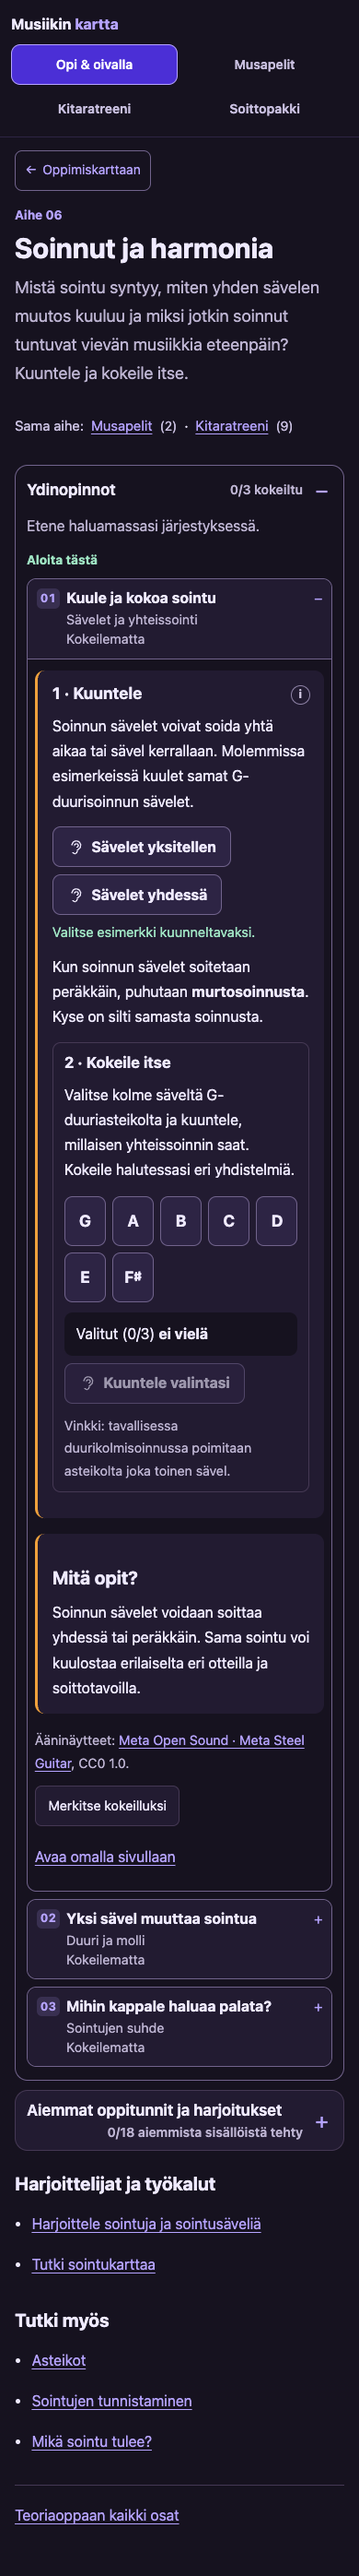
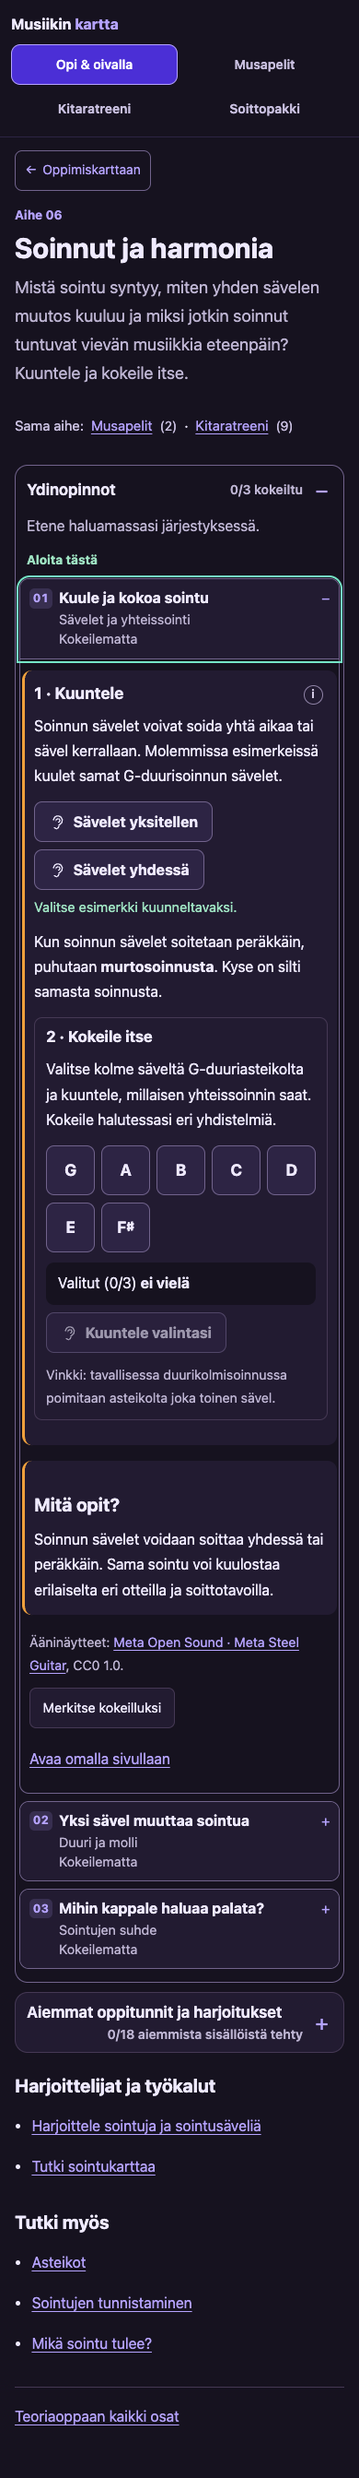
Kavenna avattujen sointuharjoitusten mobiilireunoja

diff --git a/assets/sointuharjoitus.css b/assets/sointuharjoitus.css
@@ -121,3 +121,13 @@
 .study-inline-body { padding: 0 clamp(.45rem, 2vw, .875rem) .875rem; min-width: 0; }
 .study-inline-body .done-row, .study-inline-link { margin-block: .75rem 0; }
 .study-inline-link a { display: inline-flex; align-items: center; min-height: 44px; }
+
+@media (max-width: 600px) {
+  .study-unit-body:has(> .study-inline-choices) { padding-inline: .25rem; }
+  .study-unit-body:has(> .study-inline-choices) > :is(.study-unit-goal, .study-start) {
+    margin-inline: .5rem;
+  }
+  .study-inline-body { padding-inline: .125rem; }
+  .study-inline-body > :is(.practice, .note) { padding-inline: .625rem; }
+  .study-inline-body > :is(.sointu-lahde, .done-row, .study-inline-link) { margin-inline: .5rem; }
+}

diff --git a/oppi/soinnut/index.html b/oppi/soinnut/index.html
@@ -9,7 +9,7 @@
   <link rel="stylesheet" href="../../assets/paavalikko.css?v=4e5c7fbf95">
   <link rel="stylesheet" href="../../assets/oppi.css?v=cf1b18af1d">
   <link rel="stylesheet" href="../../assets/kokonaisuudet.css?v=d3216b05a6">
-  <link rel="stylesheet" href="../../assets/sointuharjoitus.css?v=80b70e79c1">
+  <link rel="stylesheet" href="../../assets/sointuharjoitus.css?v=0e9e104442">
 </head>
 <body>
   <a class="study-skip" href="#oppi-sisalto">Siirry sisältöön</a>

diff --git a/oppi/soinnut/kokeile-g-sointua-kitaralla.html b/oppi/soinnut/kokeile-g-sointua-kitaralla.html
@@ -9,7 +9,7 @@
   <link rel="stylesheet" href="../../assets/paavalikko.css?v=4e5c7fbf95">
   <link rel="stylesheet" href="../../assets/oppi.css?v=cf1b18af1d">
   <link rel="stylesheet" href="../../assets/kokonaisuudet.css?v=d3216b05a6">
-  <link rel="stylesheet" href="../../assets/sointuharjoitus.css?v=80b70e79c1">
+  <link rel="stylesheet" href="../../assets/sointuharjoitus.css?v=0e9e104442">
 </head>
 <body>
   <a class="study-skip" href="#oppi-sisalto">Siirry sisältöön</a>

diff --git a/oppi/soinnut/kuule-ja-kokoa-sointu.html b/oppi/soinnut/kuule-ja-kokoa-sointu.html
@@ -9,7 +9,7 @@
   <link rel="stylesheet" href="../../assets/paavalikko.css?v=4e5c7fbf95">
   <link rel="stylesheet" href="../../assets/oppi.css?v=cf1b18af1d">
   <link rel="stylesheet" href="../../assets/kokonaisuudet.css?v=d3216b05a6">
-  <link rel="stylesheet" href="../../assets/sointuharjoitus.css?v=80b70e79c1">
+  <link rel="stylesheet" href="../../assets/sointuharjoitus.css?v=0e9e104442">
 </head>
 <body>
   <a class="study-skip" href="#oppi-sisalto">Siirry sisältöön</a>

diff --git a/oppi/soinnut/kuule-mika-on-sointu.html b/oppi/soinnut/kuule-mika-on-sointu.html
@@ -9,7 +9,7 @@
   <link rel="stylesheet" href="../../assets/paavalikko.css?v=4e5c7fbf95">
   <link rel="stylesheet" href="../../assets/oppi.css?v=cf1b18af1d">
   <link rel="stylesheet" href="../../assets/kokonaisuudet.css?v=d3216b05a6">
-  <link rel="stylesheet" href="../../assets/sointuharjoitus.css?v=80b70e79c1">
+  <link rel="stylesheet" href="../../assets/sointuharjoitus.css?v=0e9e104442">
 </head>
 <body>
   <a class="study-skip" href="#oppi-sisalto">Siirry sisältöön</a>

diff --git a/oppi/soinnut/mihin-kappale-haluaa-palata.html b/oppi/soinnut/mihin-kappale-haluaa-palata.html
@@ -9,7 +9,7 @@
   <link rel="stylesheet" href="../../assets/paavalikko.css?v=4e5c7fbf95">
   <link rel="stylesheet" href="../../assets/oppi.css?v=cf1b18af1d">
   <link rel="stylesheet" href="../../assets/kokonaisuudet.css?v=d3216b05a6">
-  <link rel="stylesheet" href="../../assets/sointuharjoitus.css?v=80b70e79c1">
+  <link rel="stylesheet" href="../../assets/sointuharjoitus.css?v=0e9e104442">
 </head>
 <body>
   <a class="study-skip" href="#oppi-sisalto">Siirry sisältöön</a>

diff --git a/oppi/soinnut/rakenna-g-duurisointu.html b/oppi/soinnut/rakenna-g-duurisointu.html
@@ -9,7 +9,7 @@
   <link rel="stylesheet" href="../../assets/paavalikko.css?v=4e5c7fbf95">
   <link rel="stylesheet" href="../../assets/oppi.css?v=cf1b18af1d">
   <link rel="stylesheet" href="../../assets/kokonaisuudet.css?v=d3216b05a6">
-  <link rel="stylesheet" href="../../assets/sointuharjoitus.css?v=80b70e79c1">
+  <link rel="stylesheet" href="../../assets/sointuharjoitus.css?v=0e9e104442">
 </head>
 <body>
   <a class="study-skip" href="#oppi-sisalto">Siirry sisältöön</a>

diff --git a/oppi/soinnut/yksi-savel-muuttaa-sointua.html b/oppi/soinnut/yksi-savel-muuttaa-sointua.html
@@ -9,7 +9,7 @@
   <link rel="stylesheet" href="../../assets/paavalikko.css?v=4e5c7fbf95">
   <link rel="stylesheet" href="../../assets/oppi.css?v=cf1b18af1d">
   <link rel="stylesheet" href="../../assets/kokonaisuudet.css?v=d3216b05a6">
-  <link rel="stylesheet" href="../../assets/sointuharjoitus.css?v=80b70e79c1">
+  <link rel="stylesheet" href="../../assets/sointuharjoitus.css?v=0e9e104442">
 </head>
 <body>
   <a class="study-skip" href="#oppi-sisalto">Siirry sisältöön</a>

diff --git a/docs/qa/soinnut-ydinopinnot-v05/raportti.md b/docs/qa/soinnut-ydinopinnot-v05/raportti.md
@@ -83,6 +83,12 @@ tyyppitarkistuksen ja buildin. Generaattoritarkistus ja linkkitarkistus läpäis
 yhteentoiminnan sekä 320/375/390/768/1200 pikselin näkymät 200 prosentin tekstillä myös
 avatuissa korteissa. Uusimman selaintestin ja HTTPS-kokeen tulos on PR-kuvauksessa.
 
+Mobiilissa avattujen korttien sivusisennyksiä kavennettiin enintään 600 px:n näkymissä.
+E/Em-harjoituksen tekstialue sai Chromiumissa 390 px:n leveydellä noin 40 px ja 320 px:n
+leveydellä noin 38 px lisää tilaa. 1200 px:n vertailumitta pysyi 605 px:ssa. Läpäisty:
+18 kohdennettua yksikkötestiä ja 12 selaintestiä, mukaan lukien 200 % tekstillä
+320/375/390/768/1200 px:n näkymät. Mobiilikuvakaappaus on päivitetty.
+
 ### Ääninäytteet
 
 Käytössä on 16 oikean teräskielisen kitaran kielinäytettä, joista 6 tulee #133:sta ja 10
